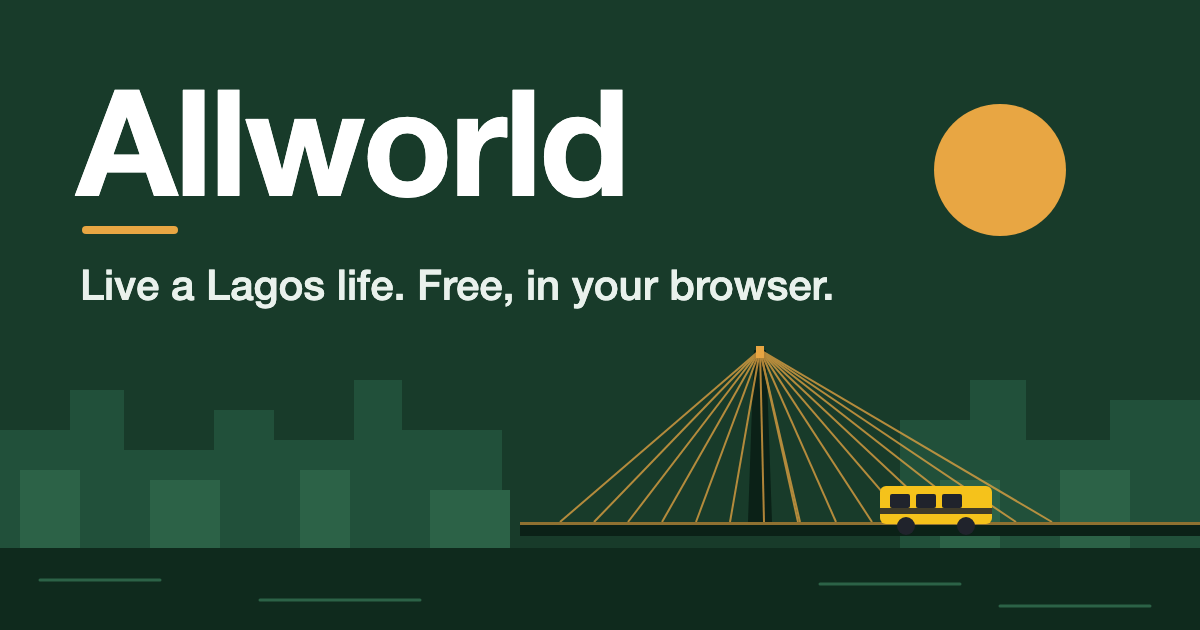
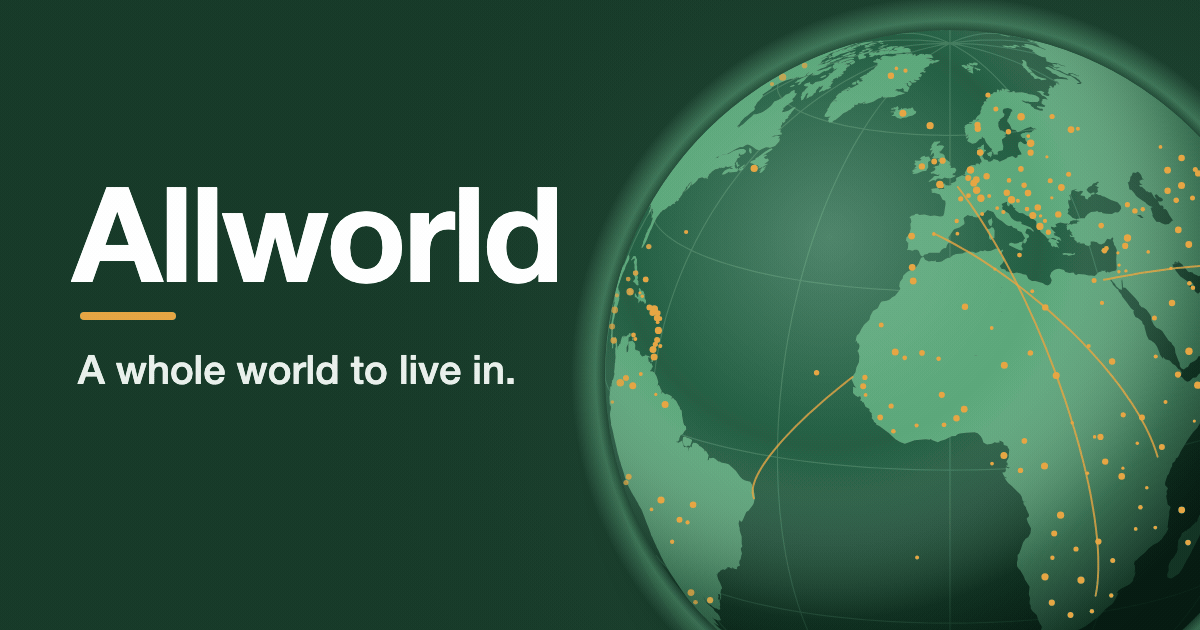
Describe Allworld as a world to live in, with Lagos as the first open city
Rewrites the page title, descriptions, manifest, JSON-LD, default share preview, share tagline, start sheet and README opening world-first, and redraws the share image as a globe. Game rules, prices, content and routes are unchanged.

diff --git a/scripts/make-og.ts b/scripts/make-og.ts
@@ -4,12 +4,15 @@
  *
  *   node --experimental-strip-types scripts/make-og.ts
  *
- * The art is flat shapes in the game's palette: dark green ground, amber, a Lekki-style cable-stayed bridge, a yellow danfo.
+ * The share card is a shaded globe (the repo's own world outlines, projected orthographically) with amber lights on many
+ * continents and a few thin travel arcs; the icons are flat shapes. Palette: dark green ground, amber, off-white.
  */
 import { execFileSync } from 'node:child_process';
-import { existsSync, mkdirSync, mkdtempSync, readdirSync, rmSync, statSync, writeFileSync } from 'node:fs';
+import { existsSync, mkdirSync, mkdtempSync, readdirSync, renameSync, rmSync, statSync, writeFileSync } from 'node:fs';
 import { homedir, tmpdir } from 'node:os';
 import { join, resolve } from 'node:path';
+import { WORLD } from '../src/map3d/geo/data/world.ts';
+import { decodeTopology } from '../src/map3d/geo/topo.ts';
 
 const root = resolve(import.meta.dirname, '..');
 const GREEN = '#183b2a', AMBER = '#e8a643', DANFO = '#f5c21b', INK = '#20232c', FONT = "'Helvetica Neue', Helvetica, Arial, sans-serif";
@@ -38,29 +41,117 @@ function render(svg: string, width: number, height: number, out: string, transpa
   } finally { rmSync(dir, { recursive: true, force: true }); }
 }
 
-const cables = (): string => {
-  const out: string[] = [];
-  for (let i = 0; i < 8; i++) { const x = 560 + i * 34; out.push(`<line x1="760" y1="350" x2="${x}" y2="522"/>`); }
-  for (let i = 0; i < 8; i++) { const x = 800 + i * 36; out.push(`<line x1="760" y1="350" x2="${x}" y2="522"/>`); }
+const WHITE = '#ffffff';
+const GLOBE = { cx: 950, cy: 375, r: 345 };
+const VIEW = { lon: 0, lat: 16 };
+const RAD = Math.PI / 180;
+
+/** Orthographic projection of a lon/lat (at height `lift` above the surface, 1 = surface) as seen from VIEW; `depth` > 0 faces the viewer. */
+function project(lon: number, lat: number, lift = 1): { x: number; y: number; depth: number } {
+  const l = (lon - VIEW.lon) * RAD, p = lat * RAD, p0 = VIEW.lat * RAD;
+  const x = Math.cos(p) * Math.sin(l);
+  const y = Math.cos(p0) * Math.sin(p) - Math.sin(p0) * Math.cos(p) * Math.cos(l);
+  const depth = Math.sin(p0) * Math.sin(p) + Math.cos(p0) * Math.cos(p) * Math.cos(l);
+  return { x: GLOBE.cx + GLOBE.r * lift * x, y: GLOBE.cy - GLOBE.r * lift * y, depth };
+}
+/** A point behind the globe is pushed out to the edge of the disc, so a coastline runs along the rim instead of disappearing. */
+function onDisc(lon: number, lat: number): [number, number] {
+  const q = project(lon, lat);
+  if (q.depth >= 0) return [q.x, q.y];
+  const dx = q.x - GLOBE.cx, dy = q.y - GLOBE.cy, d = Math.hypot(dx, dy) || 1;
+  return [GLOBE.cx + (dx / d) * GLOBE.r, GLOBE.cy + (dy / d) * GLOBE.r];
+}
+
+const land = (): string => {
+  const topo = decodeTopology(WORLD), out: string[] = [];
+  for (const feature of topo.features) {
+    if (feature.id === 'aq') continue;
+    const near = project(feature.at[0], feature.at[1]).depth > -0.45 || (feature.bounds.maxLon - feature.bounds.minLon) > 40;
+    if (!near) continue;
+    for (const poly of feature.rings) for (const ring of poly) {
+      const pts: string[] = [];
+      let seen = false;
+      for (let k = 0; k + 1 < ring.length; k += 2) { const lon = ring[k]!, lat = ring[k + 1]!; if (project(lon, lat).depth > -0.1) seen = true; const [x, y] = onDisc(lon, lat); pts.push(`${x.toFixed(1)} ${y.toFixed(1)}`); }
+      if (seen && pts.length > 5) out.push(`M${pts.join('L')}Z`);
+    }
+  }
   return out.join('');
 };
 
+/** Faint meridians every 30 degrees and parallels every 30 degrees, following the sphere's curvature. */
+const grid = (): string => {
+  const out: string[] = [];
+  const trace = (points: [number, number][]): void => {
+    let run: string[] = [];
+    for (const [lon, lat] of points) { const q = project(lon, lat); if (q.depth > 0) run.push(`${q.x.toFixed(1)} ${q.y.toFixed(1)}`); else { if (run.length > 1) out.push(`M${run.join('L')}`); run = []; } }
+    if (run.length > 1) out.push(`M${run.join('L')}`);
+  };
+  for (let lon = -180; lon < 180; lon += 30) trace(Array.from({ length: 91 }, (_, k): [number, number] => [lon, -90 + k * 2]));
+  for (let lat = -60; lat <= 60; lat += 30) trace(Array.from({ length: 181 }, (_, k): [number, number] => [-180 + k * 2, lat]));
+  return out.join('');
+};
+
+/** Small amber lights spread over many countries (a deterministic scatter): people live everywhere. */
+const lights = (): string => {
+  const out: string[] = [];
+  let seed = 7;
+  const rand = (): number => { seed = (seed * 16807) % 2147483647; return seed / 2147483647; };
+  for (const feature of decodeTopology(WORLD).features) {
+    if (feature.id === 'aq' || feature.id === 'ng') continue;
+    const size = Math.min(3, 1 + Math.round((feature.bounds.maxLon - feature.bounds.minLon) / 22));
+    for (let n = 0; n < size; n++) {
+      const lon = feature.at[0] + (rand() - 0.5) * Math.min(12, feature.bounds.maxLon - feature.bounds.minLon) * (n ? 1 : 0), lat = feature.at[1] + (rand() - 0.5) * Math.min(8, feature.bounds.maxLat - feature.bounds.minLat) * (n ? 1 : 0);
+      const q = project(lon, lat);
+      if (q.depth < 0.12) continue;
+      const rr = 1.6 + rand() * 2.2, edge = Math.min(1, q.depth * 2.5);
+      out.push(`<circle cx="${q.x.toFixed(1)}" cy="${q.y.toFixed(1)}" r="${rr.toFixed(1)}" fill="${AMBER}" opacity="${(0.55 + 0.45 * edge).toFixed(2)}"/>`);
+    }
+  }
+  return out.join('');
+};
+
+/** Thin amber arcs between far-apart places, lifted off the surface a little. */
+const flights = (): string => {
+  const pairs: [[number, number], [number, number]][] = [[[2, 49], [28, -26]], [[31, 30], [73, 19]], [[-17, 15], [-35, -8]], [[-3, 40], [37, -1]]];
+  return pairs.map(([a, b]) => {
+    const pts: string[] = [], rad = (v: number): number => v * RAD;
+    const va = [Math.cos(rad(a[1])) * Math.cos(rad(a[0])), Math.cos(rad(a[1])) * Math.sin(rad(a[0])), Math.sin(rad(a[1]))] as const;
+    const vb = [Math.cos(rad(b[1])) * Math.cos(rad(b[0])), Math.cos(rad(b[1])) * Math.sin(rad(b[0])), Math.sin(rad(b[1]))] as const;
+    const omega = Math.acos(va[0] * vb[0] + va[1] * vb[1] + va[2] * vb[2]);
+    for (let k = 0; k <= 40; k++) {
+      const t = k / 40, f = Math.sin((1 - t) * omega) / Math.sin(omega), g = Math.sin(t * omega) / Math.sin(omega);
+      const v = [f * va[0] + g * vb[0], f * va[1] + g * vb[1], f * va[2] + g * vb[2]] as const;
+      const q = project(Math.atan2(v[1], v[0]) / RAD, Math.asin(Math.max(-1, Math.min(1, v[2]))) / RAD, 1 + 0.16 * Math.sin(Math.PI * t));
+      pts.push(`${q.x.toFixed(1)} ${q.y.toFixed(1)}`);
+    }
+    return `<path d="M${pts.join('L')}" fill="none" stroke="${AMBER}" stroke-width="2" stroke-linecap="round" opacity=".8"/>`;
+  }).join('');
+};
+
+const { cx: GX, cy: GY, r: GR } = GLOBE;
 const card = `<svg xmlns="http://www.w3.org/2000/svg" width="1200" height="630" viewBox="0 0 1200 630" font-family="${FONT}">
+<defs>
+<radialGradient id="glow" cx="${GX}" cy="${GY}" r="${GR * 1.9}" gradientUnits="userSpaceOnUse"><stop offset="0" stop-color="#2b6a4a" stop-opacity=".75"/><stop offset=".55" stop-color="#21503a" stop-opacity=".25"/><stop offset="1" stop-color="${GREEN}" stop-opacity="0"/></radialGradient>
+<radialGradient id="sea" cx="${GX - GR * 0.35}" cy="${GY - GR * 0.4}" r="${GR * 1.5}" gradientUnits="userSpaceOnUse"><stop offset="0" stop-color="#2f6f50"/><stop offset=".5" stop-color="#1f5a3f"/><stop offset="1" stop-color="#0f2f21"/></radialGradient>
+<radialGradient id="shade" cx="${GX - GR * 0.35}" cy="${GY - GR * 0.4}" r="${GR * 1.35}" gradientUnits="userSpaceOnUse"><stop offset="0" stop-color="#ffffff" stop-opacity=".16"/><stop offset=".45" stop-color="#ffffff" stop-opacity="0"/><stop offset=".82" stop-color="#04140c" stop-opacity=".4"/><stop offset="1" stop-color="#04140c" stop-opacity=".78"/></radialGradient>
+<radialGradient id="rim" cx="${GX}" cy="${GY}" r="${GR + 34}" gradientUnits="userSpaceOnUse"><stop offset=".9" stop-color="#7fd0a0" stop-opacity=".0"/><stop offset=".935" stop-color="#7fd0a0" stop-opacity=".38"/><stop offset="1" stop-color="#7fd0a0" stop-opacity="0"/></radialGradient>
+<clipPath id="disc"><circle cx="${GX}" cy="${GY}" r="${GR}"/></clipPath>
+<filter id="soft" x="-30%" y="-30%" width="160%" height="160%"><feGaussianBlur stdDeviation="22"/></filter>
+</defs>
 <rect width="1200" height="630" fill="${GREEN}"/>
-<circle cx="1000" cy="170" r="66" fill="${AMBER}"/>
-<g fill="#21503a"><rect x="0" y="430" width="70" height="200"/><rect x="70" y="390" width="54" height="240"/><rect x="124" y="450" width="90" height="180"/><rect x="214" y="410" width="60" height="220"/><rect x="274" y="440" width="80" height="190"/><rect x="354" y="380" width="48" height="250"/><rect x="402" y="430" width="100" height="200"/><rect x="900" y="420" width="70" height="210"/><rect x="970" y="380" width="56" height="250"/><rect x="1026" y="440" width="84" height="190"/><rect x="1110" y="400" width="90" height="230"/></g>
-<g fill="#2c6247"><rect x="20" y="470" width="60" height="160"/><rect x="150" y="480" width="70" height="150"/><rect x="300" y="470" width="50" height="160"/><rect x="430" y="490" width="80" height="140"/><rect x="940" y="480" width="60" height="150"/><rect x="1060" y="470" width="70" height="160"/></g>
-<rect x="0" y="548" width="1200" height="82" fill="#0f2a1d"/>
-<g stroke="#2c6247" stroke-width="3" stroke-linecap="round"><line x1="40" y1="580" x2="160" y2="580"/><line x1="260" y1="600" x2="420" y2="600"/><line x1="820" y1="584" x2="960" y2="584"/><line x1="1000" y1="606" x2="1150" y2="606"/></g>
-<polygon points="748,522 772,522 766,350 754,350" fill="#0b2117"/>
-<rect x="756" y="346" width="8" height="12" fill="${AMBER}"/>
-<g stroke="${AMBER}" stroke-width="2" opacity=".75">${cables()}</g>
-<rect x="520" y="522" width="680" height="14" fill="#0b2117"/>
-<rect x="520" y="522" width="680" height="3" fill="${AMBER}" opacity=".6"/>
-<g><rect x="880" y="486" width="112" height="38" rx="6" fill="${DANFO}"/><rect x="890" y="494" width="20" height="14" rx="2" fill="${INK}"/><rect x="916" y="494" width="20" height="14" rx="2" fill="${INK}"/><rect x="942" y="494" width="20" height="14" rx="2" fill="${INK}"/><rect x="880" y="508" width="112" height="6" fill="${INK}" opacity=".85"/><circle cx="906" cy="526" r="9" fill="${INK}"/><circle cx="966" cy="526" r="9" fill="${INK}"/></g>
-<text x="76" y="196" font-size="148" font-weight="800" fill="#ffffff" letter-spacing="-3">Allworld</text>
-<rect x="82" y="226" width="96" height="8" rx="4" fill="${AMBER}"/>
-<text x="80" y="300" font-size="42" font-weight="500" fill="#e9f1ec">Live a Lagos life. Free, in your browser.</text>
+<rect width="1200" height="630" fill="url(#glow)"/>
+<ellipse cx="${GX + 18}" cy="${GY + 40}" rx="${GR}" ry="${GR}" fill="#04140c" opacity=".55" filter="url(#soft)"/>
+<circle cx="${GX}" cy="${GY}" r="${GR + 34}" fill="url(#rim)"/>
+<circle cx="${GX}" cy="${GY}" r="${GR}" fill="url(#sea)"/>
+<g clip-path="url(#disc)">
+<path d="${grid()}" fill="none" stroke="#9fe0b8" stroke-width="1.2" opacity=".22"/>
+<path d="${land()}" fill="#5aa77a" fill-rule="evenodd"/>
+<circle cx="${GX}" cy="${GY}" r="${GR}" fill="url(#shade)"/>
+${flights()}${lights()}
+</g>
+<text x="72" y="282" font-size="132" font-weight="800" fill="${WHITE}" letter-spacing="-3">Allworld</text>
+<rect x="80" y="312" width="96" height="8" rx="4" fill="${AMBER}"/>
+<text x="78" y="384" font-size="40" font-weight="500" fill="#e9f1ec">A whole world to live in.</text>
 </svg>`;
 
 /** The mark: a rounded or full-bleed green square with an amber A. `inset` keeps the A inside the maskable safe zone. */
@@ -76,6 +167,15 @@ ${shape === 'round' ? `<rect width="${s}" height="${s}" rx="${s * 0.22}" fill="$
 mkdirSync(join(root, 'public/og'), { recursive: true });
 mkdirSync(join(root, 'public/icons'), { recursive: true });
 render(card, 1200, 630, join(root, 'public/og/allworld.png'));
+/** The shaded globe is smooth, so a 24-bit PNG is large; when ffmpeg is installed the card is kept as a 256-colour palette PNG (about a third of the size). */
+function shrink(file: string): void {
+  const temp = `${file}.tmp.png`;
+  try {
+    execFileSync('ffmpeg', ['-y', '-loglevel', 'error', '-i', file, '-vf', 'split[a][b];[a]palettegen=max_colors=200:stats_mode=full[p];[b][p]paletteuse=dither=bayer:bayer_scale=3', '-frames:v', '1', temp], { stdio: 'ignore' });
+    if (statSync(temp).size < statSync(file).size) renameSync(temp, file);
+  } catch { /* ffmpeg is optional */ } finally { rmSync(temp, { force: true }); }
+}
+shrink(join(root, 'public/og/allworld.png'));
 render(icon(512, 'round', 1), 512, 512, join(root, 'public/icons/icon-512.png'), true);
 render(icon(192, 'round', 1), 192, 192, join(root, 'public/icons/icon-192.png'), true);
 render(icon(512, 'full', 0.72), 512, 512, join(root, 'public/icons/icon-maskable-512.png'));

diff --git a/index.html b/index.html
@@ -1,1 +1,1 @@
-<!doctype html><html lang="en"><head><meta charset="UTF-8"><meta name="viewport" content="width=device-width, initial-scale=1, viewport-fit=cover"><meta name="theme-color" content="#183b2a"><meta name="robots" content="index,follow"><link rel="canonical" href="https://joinallworld.com/"><link rel="manifest" href="/manifest.webmanifest"><link rel="icon" href="/favicon.svg" type="image/svg+xml"><link rel="icon" href="/icons/favicon-32.png" type="image/png" sizes="32x32"><link rel="apple-touch-icon" href="/icons/apple-touch-icon.png"><title>Allworld: a free Lagos life game in your browser</title><meta name="description" content="Live a Lagos life in your browser. Get a free house, work, ride a danfo, make friends, play Whot and vote. Free, no download, works on your phone."><meta property="og:type" content="website"><meta property="og:site_name" content="Allworld"><meta property="og:locale" content="en_NG"><meta property="og:url" content="https://joinallworld.com/"><meta property="og:title" content="Allworld: a free Lagos life game in your browser"><meta property="og:description" content="Live a Lagos life in your browser. Get a free house, work, ride a danfo, make friends, play Whot and vote. Free, no download, works on your phone."><meta property="og:image" content="https://joinallworld.com/og/allworld.png"><meta property="og:image:type" content="image/png"><meta property="og:image:width" content="1200"><meta property="og:image:height" content="630"><meta property="og:image:alt" content="Allworld: a yellow danfo crossing a cable-stayed bridge over the Lagos skyline"><meta name="twitter:card" content="summary_large_image"><meta name="twitter:title" content="Allworld: a free Lagos life game in your browser"><meta name="twitter:description" content="Live a Lagos life in your browser. Get a free house, work, ride a danfo, make friends, play Whot and vote. Free, no download, works on your phone."><meta name="twitter:image" content="https://joinallworld.com/og/allworld.png"><meta name="twitter:image:alt" content="Allworld: a yellow danfo crossing a cable-stayed bridge over the Lagos skyline"><script type="application/ld+json">[{"@context":"https://schema.org","@type":"VideoGame","name":"Allworld","description":"Live a Lagos life in your browser. Get a free house, work, ride a danfo, make friends, play Whot and vote. Free, no download, works on your phone.","url":"https://joinallworld.com/","image":"https://joinallworld.com/og/allworld.png","genre":["Life simulation","Social"],"gamePlatform":"Web browser","applicationCategory":"Game","operatingSystem":"Any","inLanguage":"en","offers":{"@type":"Offer","price":"0","priceCurrency":"NGN","availability":"https://schema.org/InStock"}},{"@context":"https://schema.org","@type":"WebSite","name":"Allworld","url":"https://joinallworld.com/","inLanguage":"en"}]</script><script>/* Errors thrown before the game's code has loaded are kept (at most 10, in memory) so error monitoring can report them if it is switched on; src/telemetry/index.ts empties this and removes the listeners otherwise. */(function(w){var q=w.__jawErrors=[],h=w.__jawErrorHandler=function(e){if(q.length<10)q.push({e:e.error||e.reason||e.message})};w.addEventListener("error",h);w.addEventListener("unhandledrejection",h)})(window)</script></head><body><noscript><div style="position:fixed;inset:0;z-index:99999;display:grid;place-items:center;background:#183b2a;color:#fff;font:16px/1.5 system-ui,sans-serif;text-align:center;padding:24px">Allworld is a free life game set in Lagos, and it runs in your browser. Switch JavaScript on, or open this page in Chrome, to play.</div></noscript><script>/* OWNER: growth. A browser that cannot run the game is told so, and how to get in, instead of being left on a dead page. Opera Mini's data-saving mode runs scripts on Opera's servers and has no WebGL; some browsers have 3D switched off. Plain ES5, before anything else loads. */(function(){var n=navigator,ua=n.userAgent||'',mini=/Opera Mini/i.test(ua)||Object.prototype.toString.call(window.operamini)==='[object OperaMini]',gl=false;try{var c=document.createElement('canvas');gl=!!(window.WebGLRenderingContext&&(c.getContext('webgl')||c.getContext('experimental-webgl')))}catch(e){}if(!mini&&gl)return;var why=mini?'opera-mini':'webgl-missing',d=document.createElement('div'),here=location.href.split('#')[0],esc=function(t){return String(t).replace(/[&<>"]/g,function(x){return{'&':'&amp;','<':'&lt;','>':'&gt;','"':'&quot;'}[x]})};d.id='aw-notice';d.setAttribute('role','alertdialog');d.setAttribute('aria-label','This browser cannot run Allworld');d.style.cssText='position:fixed;inset:0;z-index:99999;display:flex;align-items:center;justify-content:center;background:#183b2a;color:#fff;font:16px/1.5 system-ui,sans-serif;text-align:center;padding:24px';var b='display:inline-block;margin:14px 6px 0;padding:12px 20px;border-radius:999px;background:#e8a643;color:#20232c;font-weight:700;text-decoration:none;border:0;font-size:16px';d.innerHTML='<div style="max-width:420px"><h1 style="font-size:22px;margin:0 0 8px">'+(mini?'Open Allworld in Chrome':'3D is switched off in this browser')+'</h1><p style="margin:0">'+(mini?'Opera Mini saves data by not running games like this one. Allworld is light, but it needs a full browser.':'Allworld draws the city in 3D. This browser has that switched off, so it may not show.')+'</p>'+(/Android/i.test(ua)?'<a style="'+b+'" href="intent://'+esc(here.replace(/^https?:\/\//,''))+'#Intent;scheme='+(location.protocol==='http:'?'http':'https')+';package=com.android.chrome;end">Open in Chrome</a>':'')+(mini?'':'<button style="'+b+';background:#fff" id="aw-notice-go">Try anyway</button>')+'<p style="margin:16px 0 0;font-size:13px;opacity:.85">Or copy this link into Chrome, Firefox or Safari:<br><span style="user-select:all;word-break:break-all">'+esc(here)+'</span></p></div>';var add=function(){document.body.appendChild(d);var g=document.getElementById('aw-notice-go');if(g)g.onclick=function(){d.parentNode.removeChild(d)}};if(document.body)add();else document.addEventListener('DOMContentLoaded',add);try{var x=new XMLHttpRequest();x.open('POST','/api/growth/client');x.setRequestHeader('Content-Type','application/json');x.send(JSON.stringify({signals:[why]}))}catch(e){}})();</script><div id="app"></div><script type="module" src="/src/app/main.ts"></script></body></html>
+<!doctype html><html lang="en"><head><meta charset="UTF-8"><meta name="viewport" content="width=device-width, initial-scale=1, viewport-fit=cover"><meta name="theme-color" content="#183b2a"><meta name="robots" content="index,follow"><link rel="canonical" href="https://joinallworld.com/"><link rel="manifest" href="/manifest.webmanifest"><link rel="icon" href="/favicon.svg" type="image/svg+xml"><link rel="icon" href="/icons/favicon-32.png" type="image/png" sizes="32x32"><link rel="apple-touch-icon" href="/icons/apple-touch-icon.png"><title>Allworld: a digital world you can live in</title><meta name="description" content="A digital world to live in. Explore cities and cultures, work, travel, make friends and play. Lagos is open first, more cities coming. Free, no download."><meta property="og:type" content="website"><meta property="og:site_name" content="Allworld"><meta property="og:locale" content="en_NG"><meta property="og:url" content="https://joinallworld.com/"><meta property="og:title" content="Allworld: a digital world you can live in"><meta property="og:description" content="A digital world to live in. Explore cities and cultures, work, travel, make friends and play. Lagos is open first, more cities coming. Free, no download."><meta property="og:image" content="https://joinallworld.com/og/allworld.png"><meta property="og:image:type" content="image/png"><meta property="og:image:width" content="1200"><meta property="og:image:height" content="630"><meta property="og:image:alt" content="Allworld — a globe of the whole world with lights on every continent"><meta name="twitter:card" content="summary_large_image"><meta name="twitter:title" content="Allworld: a digital world you can live in"><meta name="twitter:description" content="A digital world to live in. Explore cities and cultures, work, travel, make friends and play. Lagos is open first, more cities coming. Free, no download."><meta name="twitter:image" content="https://joinallworld.com/og/allworld.png"><meta name="twitter:image:alt" content="Allworld — a globe of the whole world with lights on every continent"><script type="application/ld+json">[{"@context":"https://schema.org","@type":"VideoGame","name":"Allworld","description":"A digital world to live in, with cities and cultures to explore. Lagos is open now and more cities are coming. Free in your browser, and it works on a phone.","url":"https://joinallworld.com/","image":"https://joinallworld.com/og/allworld.png","genre":["Life simulation","Social"],"slogan":"A whole world to live in.","gamePlatform":"Web browser","applicationCategory":"Game","operatingSystem":"Any","inLanguage":"en","offers":{"@type":"Offer","price":"0","priceCurrency":"NGN","availability":"https://schema.org/InStock"}},{"@context":"https://schema.org","@type":"WebSite","name":"Allworld","url":"https://joinallworld.com/","inLanguage":"en"}]</script><script>/* Errors thrown before the game's code has loaded are kept (at most 10, in memory) so error monitoring can report them if it is switched on; src/telemetry/index.ts empties this and removes the listeners otherwise. */(function(w){var q=w.__jawErrors=[],h=w.__jawErrorHandler=function(e){if(q.length<10)q.push({e:e.error||e.reason||e.message})};w.addEventListener("error",h);w.addEventListener("unhandledrejection",h)})(window)</script></head><body><noscript><div style="position:fixed;inset:0;z-index:99999;display:grid;place-items:center;background:#183b2a;color:#fff;font:16px/1.5 system-ui,sans-serif;text-align:center;padding:24px">Allworld is a free digital world to live in, starting with Lagos, and it runs in your browser. Switch JavaScript on, or open this page in Chrome, to play.</div></noscript><script>/* OWNER: growth. A browser that cannot run the game is told so, and how to get in, instead of being left on a dead page. Opera Mini's data-saving mode runs scripts on Opera's servers and has no WebGL; some browsers have 3D switched off. Plain ES5, before anything else loads. */(function(){var n=navigator,ua=n.userAgent||'',mini=/Opera Mini/i.test(ua)||Object.prototype.toString.call(window.operamini)==='[object OperaMini]',gl=false;try{var c=document.createElement('canvas');gl=!!(window.WebGLRenderingContext&&(c.getContext('webgl')||c.getContext('experimental-webgl')))}catch(e){}if(!mini&&gl)return;var why=mini?'opera-mini':'webgl-missing',d=document.createElement('div'),here=location.href.split('#')[0],esc=function(t){return String(t).replace(/[&<>"]/g,function(x){return{'&':'&amp;','<':'&lt;','>':'&gt;','"':'&quot;'}[x]})};d.id='aw-notice';d.setAttribute('role','alertdialog');d.setAttribute('aria-label','This browser cannot run Allworld');d.style.cssText='position:fixed;inset:0;z-index:99999;display:flex;align-items:center;justify-content:center;background:#183b2a;color:#fff;font:16px/1.5 system-ui,sans-serif;text-align:center;padding:24px';var b='display:inline-block;margin:14px 6px 0;padding:12px 20px;border-radius:999px;background:#e8a643;color:#20232c;font-weight:700;text-decoration:none;border:0;font-size:16px';d.innerHTML='<div style="max-width:420px"><h1 style="font-size:22px;margin:0 0 8px">'+(mini?'Open Allworld in Chrome':'3D is switched off in this browser')+'</h1><p style="margin:0">'+(mini?'Opera Mini saves data by not running games like this one. Allworld is light, but it needs a full browser.':'Allworld draws the city in 3D. This browser has that switched off, so it may not show.')+'</p>'+(/Android/i.test(ua)?'<a style="'+b+'" href="intent://'+esc(here.replace(/^https?:\/\//,''))+'#Intent;scheme='+(location.protocol==='http:'?'http':'https')+';package=com.android.chrome;end">Open in Chrome</a>':'')+(mini?'':'<button style="'+b+';background:#fff" id="aw-notice-go">Try anyway</button>')+'<p style="margin:16px 0 0;font-size:13px;opacity:.85">Or copy this link into Chrome, Firefox or Safari:<br><span style="user-select:all;word-break:break-all">'+esc(here)+'</span></p></div>';var add=function(){document.body.appendChild(d);var g=document.getElementById('aw-notice-go');if(g)g.onclick=function(){d.parentNode.removeChild(d)}};if(document.body)add();else document.addEventListener('DOMContentLoaded',add);try{var x=new XMLHttpRequest();x.open('POST','/api/growth/client');x.setRequestHeader('Content-Type','application/json');x.send(JSON.stringify({signals:[why]}))}catch(e){}})();</script><div id="app"></div><script type="module" src="/src/app/main.ts"></script></body></html>

diff --git a/src/game/share-model.ts b/src/game/share-model.ts
@@ -20,7 +20,7 @@ export const SHARE_KINDS: readonly ShareKind[] = Object.freeze(['invite', 'house
 const KIND_NAMES: readonly string[] = SHARE_KINDS;
 const isKind = (value: unknown): value is ShareKind => typeof value === 'string' && KIND_NAMES.includes(value);
 export const BRAND = 'Allworld';
-export const TAGLINE = 'Your city story. Live in Lagos, with real people.';
+export const TAGLINE = 'A whole world to live in.';
 
 const clip = (value: unknown, max: number): string => { const text = String(value ?? '').replace(/[\u0000-\u001f\u007f]/g, ' ').trim(); return text.length > max ? `${text.slice(0, max - 1)}…` : text; };
 const count = (value: unknown, max = 100000): number => (typeof value === 'number' && Number.isSafeInteger(value) && value >= 0 ? Math.min(value, max) : 0);
@@ -30,7 +30,7 @@ const days = (n: number): string => `${n} day${n === 1 ? '' : 's'}`;
 export function cleanFacts(input: unknown): ShareFacts {
   const facts: Record<string, unknown> = isRecord(input) ? input : {};
   const kind = isKind(facts.kind) ? facts.kind : 'invite';
-  return { kind, name: clip(facts.name, 24) || 'A Lagosian', district: clip(facts.district, 24), city: clip(facts.city, 24) || 'Lagos',
+  return { kind, name: clip(facts.name, 24) || 'A resident', district: clip(facts.district, 24), city: clip(facts.city, 24) || 'Lagos',
     done: count(facts.done, 9), total: count(facts.total, 9), days: count(facts.days), stamps: count(facts.stamps, 7), title: clip(facts.title, 24),
     game: clip(facts.game, 24), won: facts.won === true, event: clip(facts.event, 48), venue: clip(facts.venue, 32),
     tableId: typeof facts.tableId === 'string' && /^[a-z0-9-]{1,40}$/.test(facts.tableId) ? facts.tableId : '' };

diff --git a/src/app/features/hud/HudSidebar.vue b/src/app/features/hud/HudSidebar.vue
@@ -66,7 +66,7 @@ function pick(id: string): void { ui.trayOpen = false; menu(id) }
       <div id="life-tray" class="life-tray">
         <div ref="tray" class="life-hud"><HudChip v-for="panel in bySlot.hud" v-show="!empty[panel.id]" :key="panel.id" :panel="panel" @rendered="onRendered(panel.id, $event)" /></div>
         <div class="life-menu">
-          <p class="life-brand"><strong><span>Allworld</span></strong><small>{{ link ? link.menu : 'City beta' }}</small></p>
+          <p class="life-brand"><strong><span>Allworld</span></strong><small>{{ link ? link.menu : 'Beta' }}</small></p>
           <button type="button" @click="pick('city')"><span aria-hidden="true"><GameIcon name="globe" :size="19" /></span><span><b>{{ view.city?.name || 'City' }}</b><small>Switch city on the world map</small></span></button>
           <button type="button" @click="ui.trayOpen = false; community.toggle(true)"><span aria-hidden="true"><GameIcon name="community" :size="19" /></span><span><b>Community</b><small>{{ atHome ? 'Home is private — visit a venue to chat' : 'People, chat and voice at this venue' }}</small></span></button>
           <button type="button" @click="shell.open('help')"><span aria-hidden="true"><GameIcon name="help" :size="19" /></span><span><b>How to play</b><small>Tips and keyboard shortcuts</small></span></button>

diff --git a/src/app/features/start/QuickStartApp.vue b/src/app/features/start/QuickStartApp.vue
@@ -119,7 +119,7 @@ function onEditorTap(event: MouseEvent): void {
 
 <template>
   <div ref="root" class="qs-root" data-qs-root>
-    <p class="qs-lead"><b>Jump into a Nigerian world with your friends.</b>Start playing in seconds. Build your life as you go.</p>
+    <p class="qs-lead"><b>Step into a world to live in, with your friends.</b>Start playing in seconds. Build your life as you go.</p>
     <p v-if="invited()" class="qs-join" role="status"><span aria-hidden="true"><GameIcon name="invite" inline /></span><span><strong>A friend invited you.</strong>Tap Play and you land where they are.</span></p>
     <p v-if="showNote && words" class="qs-note" role="status"><span aria-hidden="true"><GameIcon name="cloud-off" inline /></span><span><strong>{{ words.short }}</strong>{{ words.why }} Your character is kept on this device.</span><LinkAction class-name="ui-button is-small" /></p>
     <p v-if="shown" class="qs-error" role="alert">{{ shown }}</p>

diff --git a/server/growth/share.ts b/server/growth/share.ts
@@ -103,7 +103,7 @@ export const safeOrigin = (origin: unknown): string => (typeof origin === 'strin
  */
 export function sharePageHtml(share: Pick<ShareRecord, 'by' | 'facts'> | null, code: unknown, origin: unknown = ''): string {
   const base = safeOrigin(origin);
-  const preview = share ? sharePreview(share.facts) : { title: `${BRAND}: a free Lagos life game in your browser`, description: TAGLINE };
+  const preview = share ? sharePreview(share.facts) : { title: `${BRAND}: a digital world you can live in`, description: TAGLINE };
   // People are sent on to the game's own landing hook: `join` places a new visitor with the sharer (their venue, their
   // door, or a table), `ref` is this share code, which the game attaches as a referral once the visitor's life exists.
   const table = share?.facts?.tableId && /^[a-z0-9-]{1,40}$/.test(share.facts.tableId) ? `&table=${share.facts.tableId}` : '';

diff --git a/server/invites.test.ts b/server/invites.test.ts
@@ -23,7 +23,7 @@ interface Reply {
 const isRecord = (value: unknown): value is Frame => typeof value === 'object' && value !== null;
 const replyOf = (body: unknown, status: number): Reply => ({ ...(isRecord(body) ? body : {}), status });
 const CITY = 'lagos', ORIGIN = 'https://play.example';
-const INDEX = '<!doctype html><html><head><title>Allworld • Your city story</title><meta property="og:image" content="/og/allworld.png"><meta name="twitter:image" content="/og/allworld.png"></head><body></body></html>';
+const INDEX = '<!doctype html><html><head><title>Allworld • A whole world to live in</title><meta property="og:image" content="/og/allworld.png"><meta name="twitter:image" content="/og/allworld.png"></head><body></body></html>';
 
 async function setup(t: Parameters<typeof fixture>[0]) {
   const dist = await mkdtemp(join(tmpdir(), 'joinallworld-invites-dist-'));

diff --git a/src/app/features/start/startComponents.test.ts b/src/app/features/start/startComponents.test.ts
@@ -61,7 +61,7 @@ test('the registered panels carry the metadata of the existing ones', async () =
 test('the landing screen: the lead, the quick characters, the body toggle, the name and one Play', async () => {
   const html = await render('QuickStartApp', { params: { reason: 'new' } })
   const words = text(html)
-  assert.ok(words.startsWith('Jump into a Nigerian world with your friends. Start playing in seconds. Build your life as you go.'))
+  assert.ok(words.startsWith('Step into a world to live in, with your friends. Start playing in seconds. Build your life as you go.'))
   for (const label of ['Street', 'Owambe', 'Office', 'Sporty', 'Chill']) assert.match(html, new RegExp(`aria-label="${label} character"`))
   assert.match(html, /role="group" aria-label="Body"/)
   assert.ok(words.includes('Shuffle') && words.includes('More options') && words.includes('Your name'))

diff --git a/server/growth/outreach.ts b/server/growth/outreach.ts
@@ -226,7 +226,7 @@ function buildService(ctx: RouteContext) {
       if (welcome) contact.welcomed = true; // claimed here, so the welcome is attempted once
       if (first) count(g, now(), 'email.confirmed');
       const session = ctx.core.sessionByPublicId?.(db, claim.id);
-      return { ok: true, welcome, email: contact.email, nonce: contact.nonce, name: session?.name ?? 'Lagosian' };
+      return { ok: true, welcome, email: contact.email, nonce: contact.nonce, name: session?.name ?? 'friend' };
     });
     if (done.ok && done.welcome) await deliverMail(claim.id, 'welcome', done.email, { ...welcomeMail({ name: done.name, contact: contactLine(), ...(await links(claim.id, done.nonce)) }), headers: listHeaders((await links(claim.id, done.nonce)).unsubscribeUrl) });
     return { ok: done.ok };

diff --git a/server/seo.test.ts b/server/seo.test.ts
@@ -32,6 +32,8 @@ test('index.html head: one title, one description, a canonical, Open Graph and T
   for (const rel of ['manifest', 'icon', 'apple-touch-icon']) assert.match(head, new RegExp(`<link rel="${rel}" href="/`));
   assert.match(head, /href="\/favicon\.svg" type="image\/svg\+xml"/); assert.match(head, /href="\/icons\/favicon-32\.png" type="image\/png"/);
   assert.match(html, /<noscript>.*Allworld.*Lagos.*<\/noscript>/);
+  assert.ok(!/Lagos life/i.test(head), 'the home page head does not present the game as a Lagos life'); assert.ok(!/Lagos/.test(titles[0] ?? ''), 'the title leads with the world, not a city');
+  assert.ok(!/Lagos/.test(og['og:image:alt'] ?? ''), 'the share image does not mention Lagos');
 });
 
 test('index.html JSON-LD parses: a VideoGame and a WebSite', async () => {

diff --git a/src/game/digest.ts b/src/game/digest.ts
@@ -124,7 +124,7 @@ export function composeDigest({ name, city = 'Lagos', missions = null, events = 
   for (const mission of missions?.daily ?? []) if (!mission.done && tasks.length < DIGEST.tasks) tasks.push({ text: mission.label, app: mission.open ?? 'missions' });
   if (!tasks.length) tasks.push({ text: 'Open Missions and pick one thing for today', app: 'missions' });
   return {
-    subject: `Your week in ${city}, ${clip(name, 24) || 'Lagosian'}`,
+    subject: `Your week in ${city}, ${clip(name, 24) || 'friend'}`,
     greeting: `Here is what is waiting in ${city}.`,
     lines: top.lines.map((line) => line.text), more: top.more, tasks,
     footer: 'You get this at most once a week, only if you asked for it. One tap stops it.',

diff --git a/server/growth.test.ts b/server/growth.test.ts
@@ -112,7 +112,8 @@ test('share page: a crawler that runs no script gets correct Open Graph tags, es
     const other = await fetch(f.base + path);
     const text = await other.text();
     assert.equal(other.status, 404, path);
-    assert.match(text, /<meta property="og:title" content="Allworld: a free Lagos life game in your browser">/);
+    assert.match(text, /<meta property="og:title" content="Allworld: a digital world you can live in">/);
+    assert.ok(!/Lagos life/i.test(text) && text.includes('A whole world to live in.'), 'the default preview does not present the game as a Lagos life');
     assert.equal(/alert|onload/i.test(text), false);
     assert.match(text, /content="0;url=\/"/);
   }
